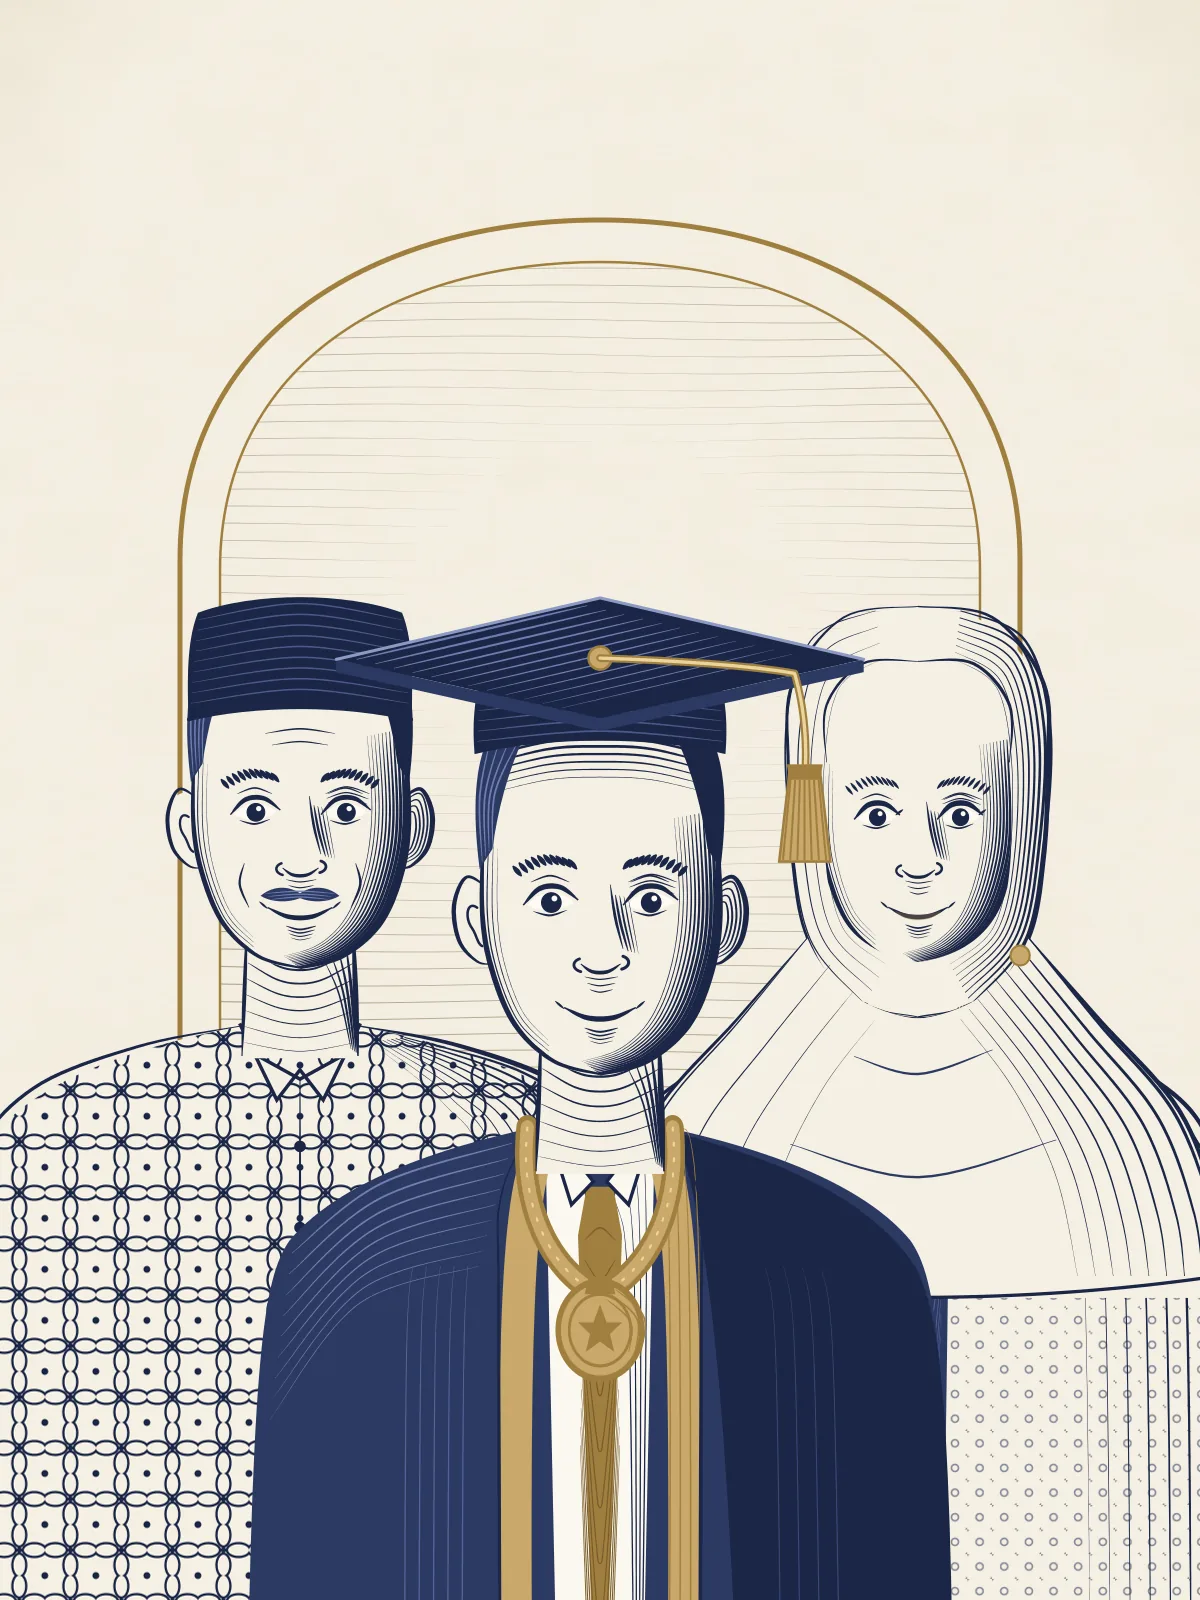
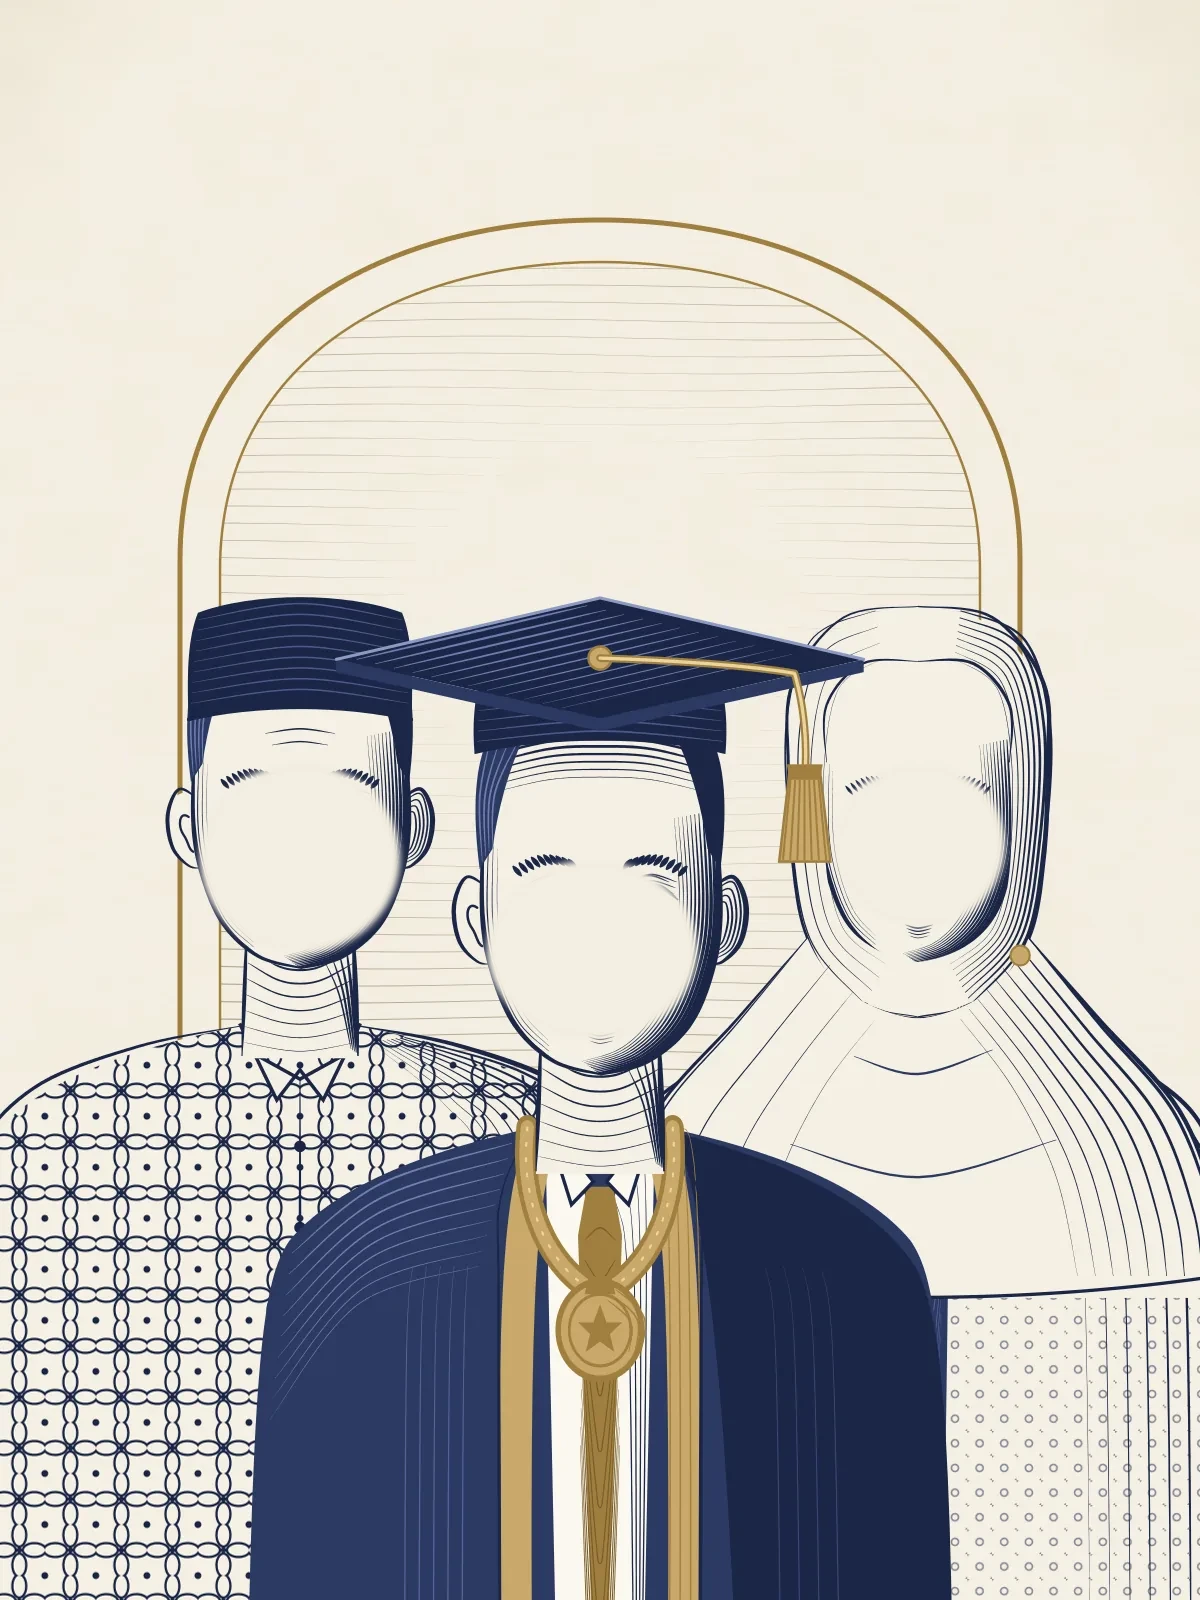
Ilustrasi tokoh dibuat tanpa wajah; varian gambar dan og.jpg diperbarui

diff --git a/public/images/SUMBER.md b/public/images/SUMBER.md
@@ -13,3 +13,5 @@ Tokoh (wisudawan, orang tua, teman) = ilustrasi buatan sendiri tanpa wajah. Obje
 | `foto-5.webp` | Lampu meja dan tumpukan buku | freestocks.org | CC0 | https://commons.wikimedia.org/wiki/File:Metal_desk_lamp_and_books_pile_(42381074432).jpg |
 
 Kampus, tokoh, dan acaranya fiktif.
+
+30 Okt 2026: wajah pada semua ilustrasi tokoh di proyek ini dihapus (wajah polos tanpa mata, hidung, mulut) agar seragam; pose, warna, dan komposisi tetap. Varian WebP dibuat ulang lewat scripts/static-images.mjs.
